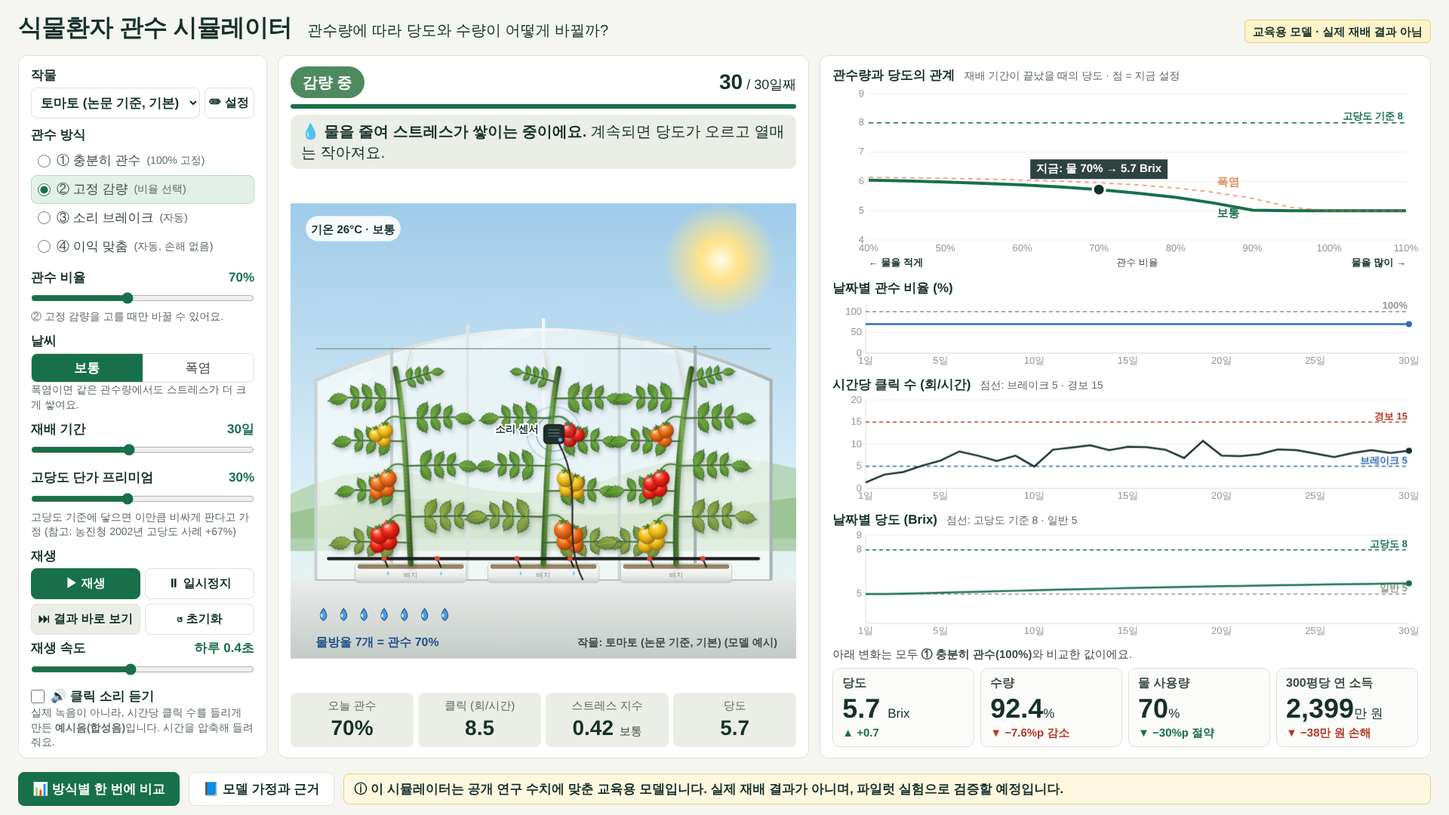
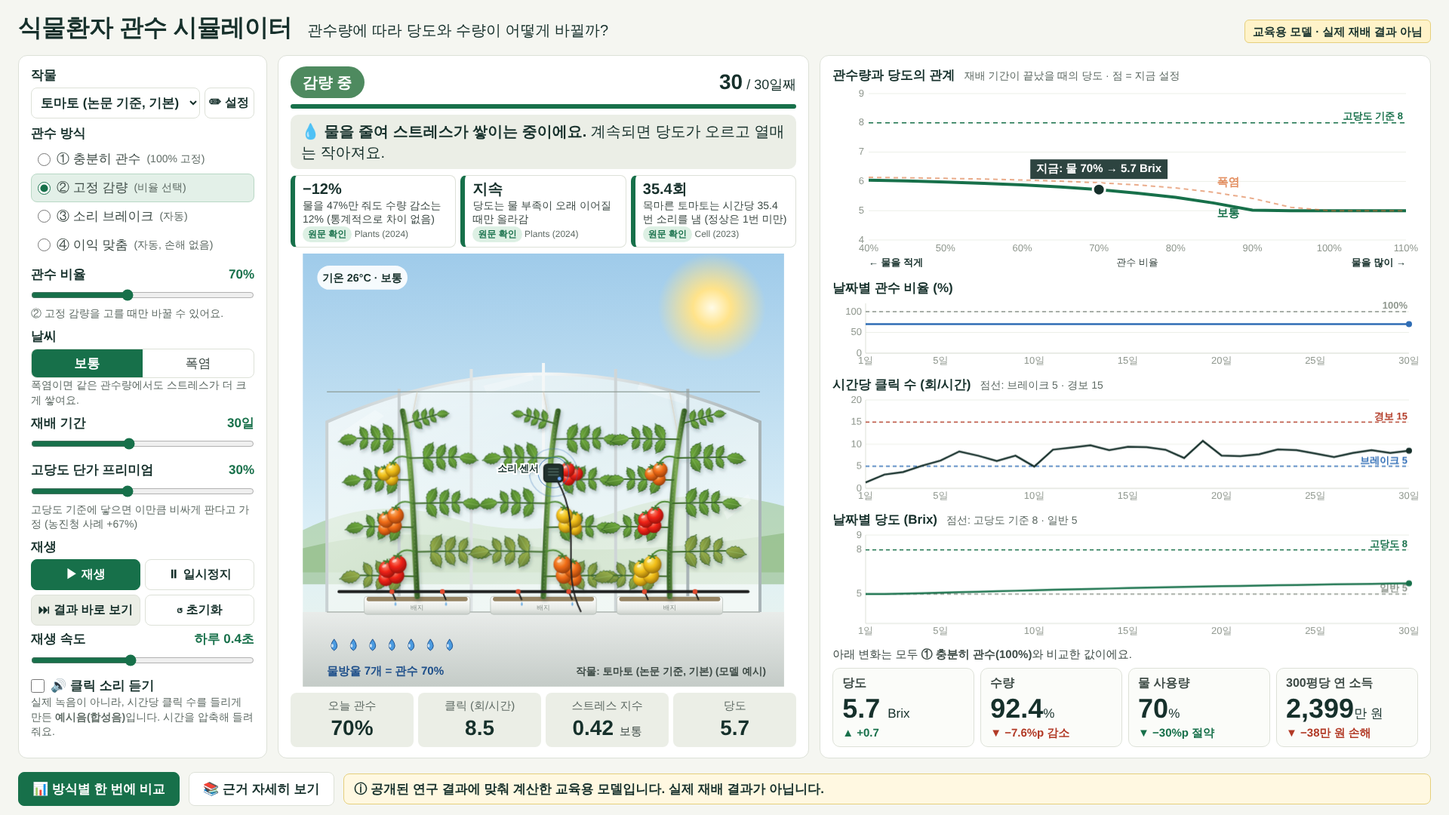
feat: 핵심 근거 카드로 근거를 보기 쉽게, 파일럿 실험 문구 삭제
- 메인 화면에 작물별 핵심 근거 3개(큰 숫자·한 줄 설명·출처·확인 수준) 표시
- 근거 창 맨 위에 큰 카드, 자세한 표는 아래로
- README에 '한눈에 보는 핵심 근거' 표 추가
- '파일럿 실험으로 검증할 예정' 문구를 화면·이미지·README에서 삭제

Claude-Session: https://claude.ai/code/session_01KETNBi2AXWmQph6AbBZ1xA

diff --git a/index.html b/index.html
@@ -31,7 +31,7 @@
   .panel h2 { margin: 0 0 8px; font-size: 16px; color: var(--ink); }
 
   /* 왼쪽 조작 패널 */
-  #controls { display: flex; flex-direction: column; gap: 10px; overflow-y: auto; }
+  #controls { display: flex; flex-direction: column; gap: 8px; overflow-y: auto; }
   fieldset { border: 0; margin: 0; padding: 0; }
   legend, .lbl { font-weight: bold; color: var(--ink); font-size: 17px; margin-bottom: 4px; padding: 0; }
   .radio { display: flex; align-items: center; gap: 8px; padding: 6px 8px; border-radius: 8px; cursor: pointer; border: 1px solid transparent; }
@@ -72,6 +72,23 @@
   .csactions input, .csactions select { font-size: 15px; padding: 7px 8px; border: 1px solid var(--line); border-radius: 8px; }
   .csactions input { width: 230px; }
   @media (max-width: 760px) { .csgrid { grid-template-columns: 1fr; } }
+  /* 핵심 근거 */
+  .evstrip { display: grid; grid-template-columns: repeat(3, 1fr); gap: 6px; }
+  .evchip { all: unset; cursor: pointer; display: flex; flex-direction: column; gap: 1px; background: #fff; border: 1px solid var(--line);
+    border-left: 6px solid var(--gray); border-radius: 8px; padding: 6px 10px; min-width: 0; }
+  .evchip:hover, .evchip:focus-visible { background: var(--soft); outline: 2px solid var(--blue); }
+  .evchip .big { font-size: 20px; font-weight: bold; color: var(--ink); line-height: 1.15; }
+  .evchip .t { font-size: 14px; color: var(--text); line-height: 1.3; }
+  .evchip .s { font-size: 12px; color: #5F6B65; white-space: nowrap; overflow: hidden; text-overflow: ellipsis; }
+  .evchip.orig, .evcard.orig { border-left-color: #17704A; } .evchip.abs, .evcard.abs { border-left-color: #2F6DB5; }
+  .evchip.sum, .evcard.sum { border-left-color: #D99A1E; } .evchip.asm, .evcard.asm { border-left-color: #A3A9A1; }
+  .evcards { display: grid; grid-template-columns: repeat(3, 1fr); gap: 10px; }
+  .evcard { background: #fff; border: 1px solid var(--line); border-left: 8px solid var(--gray); border-radius: 10px; padding: 12px 16px; }
+  .evcard .big, .evcard .t, .evcard .s { display: block; }
+  .evcard .big { font-size: 34px; font-weight: bold; color: var(--ink); line-height: 1.1; }
+  .evcard .t { font-size: 18px; color: var(--ink); margin: 6px 0; }
+  .evcard .s { font-size: 14px; color: #5F6B65; }
+  @media (max-width: 900px) { .evcards { grid-template-columns: 1fr; } }
   .toggle { display: flex; align-items: center; gap: 8px; cursor: pointer; font-weight: bold; color: var(--ink); font-size: 17px; }
   .toggle input { width: 18px; height: 18px; accent-color: var(--green); margin: 0; }
 
@@ -172,6 +189,7 @@
     .card .v { font-size: 24px; }
     .cards { gap: 6px; } .card { padding: 4px 8px; } .card .v { font-size: 20px; } .card .d { font-size: 12px; } .cardnote { display: none; }
     .readout b { font-size: 20px; }
+    .evchip .t { font-size: 12px; } .evchip .big { font-size: 16px; } .evchip { padding: 3px 8px; } .evchip .s { display: none; }
     .explain { font-size: 15px; padding: 5px 10px; min-height: 0; }
     .badge { font-size: 16px; padding: 5px 12px; }
     footer { padding: 6px 16px 10px; }
@@ -241,7 +259,7 @@
     <div>
       <div class="row"><span class="lbl">고당도 단가 프리미엄</span><span class="val" id="premVal">30%</span></div>
       <input type="range" id="premium" min="0" max="70" step="5" value="30">
-      <div class="note compact-hide">고당도 기준에 닿으면 이만큼 비싸게 판다고 가정 (참고: 농진청 2002년 고당도 사례 +67%)</div>
+      <div class="note compact-hide">고당도 기준에 닿으면 이만큼 비싸게 판다고 가정 (농진청 사례 +67%)</div>
     </div>
 
 
@@ -271,6 +289,7 @@
     </div>
     <div class="progress"><i id="prog"></i></div>
     <div class="explain" id="explain"></div>
+    <div class="evstrip" id="evStrip" title="누르면 근거를 자세히 볼 수 있어요"></div>
     <div id="svgwrap">
       <svg id="house" viewBox="0 -130 800 720" preserveAspectRatio="xMidYMid meet" overflow="hidden" role="img" aria-label="온실 속 시설 과채 3그루와 소리 센서">
         <defs>
@@ -370,8 +389,8 @@
 
 <footer>
   <button class="btn primary" id="openCmp">📊 방식별 한 번에 비교</button>
-  <button class="btn" id="openAssume">📘 모델 가정과 근거</button>
-  <div class="disclaimer">ⓘ 이 시뮬레이터는 공개 연구 수치에 맞춘 교육용 모델입니다. 실제 재배 결과가 아니며, 파일럿 실험으로 검증할 예정입니다.</div>
+  <button class="btn" id="openAssume">📚 근거 자세히 보기</button>
+  <div class="disclaimer">ⓘ 공개된 연구 결과에 맞춰 계산한 교육용 모델입니다. 실제 재배 결과가 아닙니다.</div>
 </footer>
 
 <!-- 작물 설정 -->
@@ -423,15 +442,18 @@
 <div class="modal" id="assumeModal">
   <div class="sheet">
     <div class="sheethead">
-      <h2>모델 가정과 근거</h2>
+      <h2>근거 자세히 보기</h2>
       <button class="btn" id="resetParams">기본값으로</button>
       <button class="btn close" data-close="assumeModal">✕ 닫기</button>
     </div>
-    <h3 style="margin:6px 0;color:var(--ink)">근거로 맞춘 기준값 · <span id="evCrop"></span></h3>
+    <h3 style="margin:6px 0;color:var(--ink)">핵심 근거 · <span id="evCrop2"></span></h3>
+    <div class="evcards" id="evCards"></div>
+    <p class="note" style="margin:6px 0 14px">테두리 색 = 확인 수준 &nbsp;
+      <span class="lv orig">원문 확인</span> 논문·자료 원문에서 직접 확인 · <span class="lv abs">초록 확인</span> 논문 요약(초록)에서 확인 ·
+      <span class="lv sum">검색 요약</span> 검색 결과로만 확인 · <span class="lv asm">가정</span> 근거 없이 정한 값</p>
+    <h3 style="margin:6px 0;color:var(--ink)">자세한 근거 표 · <span id="evCrop"></span></h3>
     <p class="note" id="evNote" style="margin:0 0 6px"></p>
     <table id="evTable"></table>
-    <p class="note" style="margin:6px 0 0"><span class="lv orig">원문 확인</span> 논문·자료 PDF에서 수치를 직접 확인 ·
-      <span class="lv abs">초록 확인</span> 논문 초록에서 확인 · <span class="lv sum">검색 요약</span> 검색 결과 요약으로만 확인 · <span class="lv asm">가정</span> 근거 없이 정한 값</p>
     <h3 style="margin:14px 0 4px;color:var(--ink)">작물별 검증: 문헌 목표와 모델 결과</h3>
     <p class="note" style="margin:0 0 6px">같은 시드로 고정 감량을 계산한 값입니다. "참고" 줄은 검사하지 않고 차이만 보여 줍니다.</p>
     <table id="vfTable"></table>
@@ -789,6 +811,11 @@
 
   var CROPS = {
     tomato: {
+      highlights: [
+        { big: '−12%', text: '물을 47%만 줘도 수량 감소는 12% (통계적으로 차이 없음)', src: 'Plants (2024)', lv: '원문 확인' },
+        { big: '지속', text: '당도는 물 부족이 오래 이어질 때만 올라감', src: 'Plants (2024)', lv: '원문 확인' },
+        { big: '35.4회', text: '목마른 토마토는 시간당 35.4번 소리를 냄 (정상은 1번 미만)', src: 'Cell (2023)', lv: '원문 확인' }
+      ],
       name: '토마토 (논문 기준, 기본)', fruit: 'tomato',
       params: {},
       note: '발표 기본 모델. Plants (2024) 원문에 맞춤: 물 47%에서 수량 −12%(통계적으로 유의하지 않음), 당도 +1.0 정도.',
@@ -807,6 +834,11 @@
       ]
     },
     tomatoDraft: {
+      highlights: [
+        { big: '+1.5', text: '처음 계획의 목표: 물 70%에서 당도 +1.5 이상', src: '처음 프롬프트', lv: '가정' },
+        { big: '47%', text: '논문의 수량 −12%는 사실 물 47% 조건이었음', src: 'Plants (2024)', lv: '원문 확인' },
+        { big: '35.4회', text: '목마른 토마토는 시간당 35.4번 소리를 냄 (정상은 1번 미만)', src: 'Cell (2023)', lv: '원문 확인' }
+      ],
       name: '토마토 (처음 초안)', fruit: 'tomato', params: { maxBrixRise: 4.0, yieldLinear: 0.30, yieldQuad: 2.5 },
       note: '처음 프롬프트 기준(70%: 당도 +1.5 이상, 수량 −8~16%)에 맞춘 설정. 논문의 −12%는 물 47% 조건이었으므로 원문보다 당도도 수량 손해도 크게 나옵니다. 비교용.',
       evidence: [
@@ -827,6 +859,11 @@
       ]
     },
     cherry: {
+      highlights: [
+        { big: '+12~16%', text: '물을 줄이면 방울토마토 당도가 12~16% 오름', src: 'Agriculture (2021) 외', lv: '검색 요약' },
+        { big: '가을 −5~20%', text: '가을 작기는 수량 차이가 작음, 봄 작기는 크게 감소', src: 'Agric. Water Manag.', lv: '초록 확인' },
+        { big: '35.4회', text: '목마른 토마토는 시간당 35.4번 소리를 냄 (정상은 1번 미만)', src: 'Cell (2023)', lv: '원문 확인' }
+      ],
       name: '방울토마토', fruit: 'cherry',
       params: { baseBrix: 7, highBrix: 9, maxBrixRise: 1.7, yieldLinear: 0.255, yieldQuad: 2.5 },
       note: '당도 증가 +12~16%, 가을 작기 수량 감소 5~20%에 맞춤.',
@@ -844,6 +881,11 @@
       ]
     },
     strawberry: {
+      highlights: [
+        { big: '−30~36%', text: '물을 줄이면 상품 수량이 30~36% 감소, 당도는 그대로', src: 'Front. Hortic. (2025)', lv: '검색 요약' },
+        { big: '−25%', text: '심으면서부터 물을 줄이면 당이 오히려 25% 줄어듦', src: 'Hortic. Environ. Biotechnol. (2023)', lv: '초록 확인' },
+        { big: '자료 없음', text: '딸기의 소리는 측정된 적 없음 → 토마토 값 사용', src: 'Cell (2023)', lv: '가정' }
+      ],
       name: '딸기', fruit: 'strawberry',
       params: { baseBrix: 9, highBrix: 11, maxBrixRise: 0.4, yieldLinear: 0.84, yieldQuad: 2.5 },
       note: '수량은 크게 줄고, 당도는 연구에 따라 증가·변화 없음·감소가 모두 보고됨. 당도 상승을 아주 작게 잡음. 물을 줄여 얻는 것이 적은 작물.',
@@ -861,6 +903,11 @@
       ]
     },
     melon: {
+      highlights: [
+        { big: '+23%', text: '물을 절반(50%)으로 줄이면 당도 23% 증가', src: 'Agric. Water Manag. (2014)', lv: '초록 확인' },
+        { big: '−30%', text: '대신 상품 수량 30% 감소 (주로 열매가 작아짐)', src: 'Agric. Water Manag. (2014)', lv: '초록 확인' },
+        { big: '37~45%', text: '물을 37~45% 아낄 수 있음 (Mission·Da Vinci 품종)', src: 'Agric. Water Manag. (2014)', lv: '초록 확인' }
+      ],
       name: '멜론', fruit: 'melon',
       params: { baseBrix: 11, highBrix: 14, maxBrixRise: 3.1, yieldLinear: 0.4, yieldQuad: 2.5 },
       note: '50% 관수에서 당도 +23%, 상품 수량 −30%(주로 과실 크기 감소)에 맞춤. 품종에 따라 수량 감소가 −24~43%로 다름.',
@@ -878,6 +925,11 @@
       ]
     },
     citrus: {
+      highlights: [
+        { big: '+2.6~3.0', text: '타이벡으로 빗물을 막으면 당도가 2.6~3.0 °Bx 오름', src: '제주농업기술원 (2019)', lv: '원문 확인' },
+        { big: '30~60일', text: '피복하고 30~60일이 지나야 물 스트레스가 시작됨', src: '제주농업기술원 (2019)', lv: '원문 확인' },
+        { big: '9.9 vs 11.7', text: '물이 고인 나무는 당도가 1.8 °Bx 낮음', src: '제주농업기술원 (2019)', lv: '원문 확인' }
+      ],
       name: '감귤 (타이벡 피복)', fruit: 'citrus',
       params: { baseBrix: 10, highBrix: 11, maxBrixRise: 3.8, yieldLinear: 0.23, yieldQuad: 2.5, sustainMinDays: 25, stressAccum: 0.25 },
       note: '타이벡으로 빗물을 막아 물을 줄이는 실제 재배법. 피복 후 30~60일 지나야 스트레스가 시작돼 재배 기간을 60일로 늘려 보세요. 관수 50%를 "피복"으로 봄.',
@@ -897,6 +949,11 @@
       ]
     },
     pepper: {
+      highlights: [
+        { big: '80%', text: '물을 80%로 줄여도 수량이 오히려 늘어남 (물 10% 절약)', src: 'ISHS Acta Hortic. 1034', lv: '초록 확인' },
+        { big: '−35%', text: '짠물로 키우면 수량 35% 감소, 대신 당도는 오름', src: 'ISHS Acta Hortic. 1034', lv: '초록 확인' },
+        { big: '자료 없음', text: '파프리카의 소리는 측정된 적 없음 → 토마토 값 사용', src: 'Cell (2023)', lv: '가정' }
+      ],
       name: '파프리카', fruit: 'pepper',
       params: { baseBrix: 7, highBrix: 8, maxBrixRise: 0.8, yieldLinear: 0.036, yieldQuad: 2.5 },
       note: '20% 정도 줄여도 수량이 거의 줄지 않는다는 연구가 있음. 당도 상승은 작게 잡음.',
@@ -920,7 +977,8 @@
     CROPS[key] = {
       name: name, fruit: fruit || 'tomato', params: params || {}, custom: true,
       note: '사용자가 만든 작물입니다. 값은 모두 직접 입력한 것이며 검증되지 않았습니다.',
-      evidence: [['모든 값', '사용자가 직접 입력', '-', '가정']], targets: []
+      evidence: [['모든 값', '사용자가 직접 입력', '-', '가정']], targets: [],
+      highlights: [{ big: '직접 입력', text: '사용자가 만든 작물이라 근거가 없는 값입니다', src: '-', lv: '가정' }]
     };
     return CROPS[key];
   }
@@ -947,7 +1005,7 @@
     });
   }
 
-  // 방식별 비교 (발표 파일럿 설계 3그룹 + ④ 이익 맞춤)
+  // 방식별 비교 (① 100% · ② 70% 고정 · ③ 소리 브레이크 · ④ 이익 맞춤)
   function compareAll(opts) {
     var groups = [
       { key: 'full', name: '① 충분히 관수 (100%)', mode: 'full' },
@@ -1564,7 +1622,7 @@
     });
     g.fillStyle = C.red; g.font = 'bold 22px ' + F; g.fillText('⚠ 가정값에 따라 결과가 달라집니다.', 50, ly + 50);
     g.fillStyle = C.text; g.font = '20px ' + F;
-    g.fillText('공개 연구 수치에 맞춘 교육용 모델입니다. 실제 재배 결과가 아니며, 파일럿 실험으로 검증할 예정입니다. — 식물환자 관수 시뮬레이터', 50, ly + 84);
+    g.fillText('공개된 연구 결과에 맞춰 계산한 교육용 모델입니다. 실제 재배 결과가 아닙니다. — 식물환자 관수 시뮬레이터', 50, ly + 84);
   }
   function download(name, href) {
     var a = document.createElement('a'); a.href = href; a.download = name;
@@ -1583,8 +1641,17 @@
   // ── 모델 가정과 근거 ──
   var LV = { '원문 확인': 'orig', '초록 확인': 'abs', '검색 요약': 'sum', '가정': 'asm' };
   function esc(x) { return String(x).replace(/&/g, '&amp;').replace(/</g, '&lt;'); }
+  function hlHTML(h, cls) {
+    return '<' + (cls === 'evchip' ? 'button type="button"' : 'div') + ' class="' + cls + ' ' + (LV[h.lv] || 'asm') + '">' +
+      '<span class="big">' + esc(h.big) + '</span><span class="t">' + esc(h.text) + '</span>' +
+      '<span class="s"><span class="lv ' + (LV[h.lv] || 'asm') + '">' + esc(h.lv) + '</span> ' + esc(h.src) + '</span></' + (cls === 'evchip' ? 'button' : 'div') + '>';
+  }
   function buildEvidence() {
-    var c = M.CROPS[$('crop').value];
+    var c = M.CROPS[$('crop').value], hl = c.highlights || [];
+    $('evStrip').innerHTML = hl.map(function (h) { return hlHTML(h, 'evchip'); }).join('');
+    $('evStrip').querySelectorAll('.evchip').forEach(function (b) { b.onclick = function () { $('openAssume').click(); }; });
+    $('evCards').innerHTML = hl.map(function (h) { return hlHTML(h, 'evcard'); }).join('');
+    $('evCrop2').textContent = c.name;
     $('evCrop').textContent = c.name; $('evNote').textContent = c.note;
     $('evTable').innerHTML = '<tr><th>항목</th><th>값</th><th>출처</th><th>확인</th></tr>' + c.evidence.map(function (r) {
       return '<tr><td>' + esc(r[0]) + '</td><td>' + esc(r[1]) + '</td><td>' + esc(r[2]) + '</td><td><span class="lv ' + (LV[r[3]] || 'asm') + '">' + esc(r[3]) + '</span></td></tr>';

diff --git a/model.js b/model.js
@@ -335,6 +335,11 @@
 
   var CROPS = {
     tomato: {
+      highlights: [
+        { big: '−12%', text: '물을 47%만 줘도 수량 감소는 12% (통계적으로 차이 없음)', src: 'Plants (2024)', lv: '원문 확인' },
+        { big: '지속', text: '당도는 물 부족이 오래 이어질 때만 올라감', src: 'Plants (2024)', lv: '원문 확인' },
+        { big: '35.4회', text: '목마른 토마토는 시간당 35.4번 소리를 냄 (정상은 1번 미만)', src: 'Cell (2023)', lv: '원문 확인' }
+      ],
       name: '토마토 (논문 기준, 기본)', fruit: 'tomato',
       params: {},
       note: '발표 기본 모델. Plants (2024) 원문에 맞춤: 물 47%에서 수량 −12%(통계적으로 유의하지 않음), 당도 +1.0 정도.',
@@ -353,6 +358,11 @@
       ]
     },
     tomatoDraft: {
+      highlights: [
+        { big: '+1.5', text: '처음 계획의 목표: 물 70%에서 당도 +1.5 이상', src: '처음 프롬프트', lv: '가정' },
+        { big: '47%', text: '논문의 수량 −12%는 사실 물 47% 조건이었음', src: 'Plants (2024)', lv: '원문 확인' },
+        { big: '35.4회', text: '목마른 토마토는 시간당 35.4번 소리를 냄 (정상은 1번 미만)', src: 'Cell (2023)', lv: '원문 확인' }
+      ],
       name: '토마토 (처음 초안)', fruit: 'tomato', params: { maxBrixRise: 4.0, yieldLinear: 0.30, yieldQuad: 2.5 },
       note: '처음 프롬프트 기준(70%: 당도 +1.5 이상, 수량 −8~16%)에 맞춘 설정. 논문의 −12%는 물 47% 조건이었으므로 원문보다 당도도 수량 손해도 크게 나옵니다. 비교용.',
       evidence: [
@@ -373,6 +383,11 @@
       ]
     },
     cherry: {
+      highlights: [
+        { big: '+12~16%', text: '물을 줄이면 방울토마토 당도가 12~16% 오름', src: 'Agriculture (2021) 외', lv: '검색 요약' },
+        { big: '가을 −5~20%', text: '가을 작기는 수량 차이가 작음, 봄 작기는 크게 감소', src: 'Agric. Water Manag.', lv: '초록 확인' },
+        { big: '35.4회', text: '목마른 토마토는 시간당 35.4번 소리를 냄 (정상은 1번 미만)', src: 'Cell (2023)', lv: '원문 확인' }
+      ],
       name: '방울토마토', fruit: 'cherry',
       params: { baseBrix: 7, highBrix: 9, maxBrixRise: 1.7, yieldLinear: 0.255, yieldQuad: 2.5 },
       note: '당도 증가 +12~16%, 가을 작기 수량 감소 5~20%에 맞춤.',
@@ -390,6 +405,11 @@
       ]
     },
     strawberry: {
+      highlights: [
+        { big: '−30~36%', text: '물을 줄이면 상품 수량이 30~36% 감소, 당도는 그대로', src: 'Front. Hortic. (2025)', lv: '검색 요약' },
+        { big: '−25%', text: '심으면서부터 물을 줄이면 당이 오히려 25% 줄어듦', src: 'Hortic. Environ. Biotechnol. (2023)', lv: '초록 확인' },
+        { big: '자료 없음', text: '딸기의 소리는 측정된 적 없음 → 토마토 값 사용', src: 'Cell (2023)', lv: '가정' }
+      ],
       name: '딸기', fruit: 'strawberry',
       params: { baseBrix: 9, highBrix: 11, maxBrixRise: 0.4, yieldLinear: 0.84, yieldQuad: 2.5 },
       note: '수량은 크게 줄고, 당도는 연구에 따라 증가·변화 없음·감소가 모두 보고됨. 당도 상승을 아주 작게 잡음. 물을 줄여 얻는 것이 적은 작물.',
@@ -407,6 +427,11 @@
       ]
     },
     melon: {
+      highlights: [
+        { big: '+23%', text: '물을 절반(50%)으로 줄이면 당도 23% 증가', src: 'Agric. Water Manag. (2014)', lv: '초록 확인' },
+        { big: '−30%', text: '대신 상품 수량 30% 감소 (주로 열매가 작아짐)', src: 'Agric. Water Manag. (2014)', lv: '초록 확인' },
+        { big: '37~45%', text: '물을 37~45% 아낄 수 있음 (Mission·Da Vinci 품종)', src: 'Agric. Water Manag. (2014)', lv: '초록 확인' }
+      ],
       name: '멜론', fruit: 'melon',
       params: { baseBrix: 11, highBrix: 14, maxBrixRise: 3.1, yieldLinear: 0.4, yieldQuad: 2.5 },
       note: '50% 관수에서 당도 +23%, 상품 수량 −30%(주로 과실 크기 감소)에 맞춤. 품종에 따라 수량 감소가 −24~43%로 다름.',
@@ -424,6 +449,11 @@
       ]
     },
     citrus: {
+      highlights: [
+        { big: '+2.6~3.0', text: '타이벡으로 빗물을 막으면 당도가 2.6~3.0 °Bx 오름', src: '제주농업기술원 (2019)', lv: '원문 확인' },
+        { big: '30~60일', text: '피복하고 30~60일이 지나야 물 스트레스가 시작됨', src: '제주농업기술원 (2019)', lv: '원문 확인' },
+        { big: '9.9 vs 11.7', text: '물이 고인 나무는 당도가 1.8 °Bx 낮음', src: '제주농업기술원 (2019)', lv: '원문 확인' }
+      ],
       name: '감귤 (타이벡 피복)', fruit: 'citrus',
       params: { baseBrix: 10, highBrix: 11, maxBrixRise: 3.8, yieldLinear: 0.23, yieldQuad: 2.5, sustainMinDays: 25, stressAccum: 0.25 },
       note: '타이벡으로 빗물을 막아 물을 줄이는 실제 재배법. 피복 후 30~60일 지나야 스트레스가 시작돼 재배 기간을 60일로 늘려 보세요. 관수 50%를 "피복"으로 봄.',
@@ -443,6 +473,11 @@
       ]
     },
     pepper: {
+      highlights: [
+        { big: '80%', text: '물을 80%로 줄여도 수량이 오히려 늘어남 (물 10% 절약)', src: 'ISHS Acta Hortic. 1034', lv: '초록 확인' },
+        { big: '−35%', text: '짠물로 키우면 수량 35% 감소, 대신 당도는 오름', src: 'ISHS Acta Hortic. 1034', lv: '초록 확인' },
+        { big: '자료 없음', text: '파프리카의 소리는 측정된 적 없음 → 토마토 값 사용', src: 'Cell (2023)', lv: '가정' }
+      ],
       name: '파프리카', fruit: 'pepper',
       params: { baseBrix: 7, highBrix: 8, maxBrixRise: 0.8, yieldLinear: 0.036, yieldQuad: 2.5 },
       note: '20% 정도 줄여도 수량이 거의 줄지 않는다는 연구가 있음. 당도 상승은 작게 잡음.',
@@ -466,7 +501,8 @@
     CROPS[key] = {
       name: name, fruit: fruit || 'tomato', params: params || {}, custom: true,
       note: '사용자가 만든 작물입니다. 값은 모두 직접 입력한 것이며 검증되지 않았습니다.',
-      evidence: [['모든 값', '사용자가 직접 입력', '-', '가정']], targets: []
+      evidence: [['모든 값', '사용자가 직접 입력', '-', '가정']], targets: [],
+      highlights: [{ big: '직접 입력', text: '사용자가 만든 작물이라 근거가 없는 값입니다', src: '-', lv: '가정' }]
     };
     return CROPS[key];
   }
@@ -493,7 +529,7 @@
     });
   }
 
-  // 방식별 비교 (발표 파일럿 설계 3그룹 + ④ 이익 맞춤)
+  // 방식별 비교 (① 100% · ② 70% 고정 · ③ 소리 브레이크 · ④ 이익 맞춤)
   function compareAll(opts) {
     var groups = [
       { key: 'full', name: '① 충분히 관수 (100%)', mode: 'full' },

diff --git a/README.md b/README.md
@@ -3,7 +3,24 @@
 관수량을 줄이면 당도는 오르고 수량은 줄어드는 관계를 슬라이더로 직접 체험하는 웹 페이지입니다.
 2026 연암SMART팜 융복합 공모전 본선 발표 시연용입니다.
 
-> 이 시뮬레이터는 공개 연구 수치에 맞춘 교육용 모델입니다. 실제 재배 결과가 아니며, 파일럿 실험으로 검증할 예정입니다.
+> 공개된 연구 결과에 맞춰 계산한 교육용 모델입니다. 실제 재배 결과가 아닙니다.
+
+## 한눈에 보는 핵심 근거
+
+| 내용 | 숫자 | 출처 | 확인 수준 |
+| --- | --- | --- | --- |
+| 물을 47%만 줘도 토마토 수량 감소는 12% (통계적으로 차이 없음) | −12% | Alomari-Mheidat et al., *Plants* 13:128 (2024) | 원문 확인 |
+| 당도는 물 부족이 **오래 이어질 때만** 오름 | — | *Plants* (2024) | 원문 확인 |
+| 목마른 토마토는 시간당 35.4번 소리를 냄 (정상은 1번 미만) | 35.4회 | Khait et al., *Cell* 186:1328 (2023) | 원문 확인 |
+| 물을 준 뒤 소리는 4~5일간 늘다가 줄어듦 | 4~5일 | *Cell* (2023) | 원문 확인 |
+| 타이벡 피복 감귤은 당도가 2.6~3.0 °Bx 오름 | +2.6~3.0 | 제주농업기술원 (2019) | 원문 확인 |
+| 피복 후 30~60일이 지나야 물 스트레스가 시작됨 | 30~60일 | 제주농업기술원 (2019) | 원문 확인 |
+| 멜론은 물을 절반으로 줄이면 당도 +23%, 상품 수량 −30% | +23% / −30% | *Agric. Water Manag.* (2014) | 초록 확인 |
+| 파프리카는 물을 80%로 줄여도 수량이 오히려 늘어남 | 80% | ISHS *Acta Hortic.* 1034 | 초록 확인 |
+| 딸기는 물을 줄이면 상품 수량 −30~36%, 당도는 그대로 | −30~36% | *Front. Hortic.* (2025) | 검색 요약 |
+
+**확인 수준**: 원문 확인 = 논문·자료 원문(PDF)에서 직접 확인 · 초록 확인 = 논문 요약(초록)에서 확인 · 검색 요약 = 검색 결과로만 확인 · 가정 = 근거 없이 정한 값.
+화면에서는 가운데 위의 **근거 카드**와 아래 **"📚 근거 자세히 보기"** 버튼으로 같은 내용을 볼 수 있습니다.
 
 ## 실행 방법
 
@@ -46,7 +63,7 @@
 
 ## 계수표 (`model.js`의 `DEFAULTS`)
 
-화면의 "📘 모델 가정과 근거"에서 모든 값을 바꿔 바로 다시 계산할 수 있습니다.
+화면의 "📚 근거 자세히 보기"에서 모든 값을 바꿔 바로 다시 계산할 수 있습니다.
 
 | 계수 | 값 | 의미 | 출처 / 가정 |
 | --- | --- | --- | --- |
@@ -104,7 +121,7 @@
 
 ## 작물별 시험 (작물 선택)
 
-왼쪽 맨 위에서 작물을 고르면 그 작물의 문헌 수치에 맞춘 계수로 다시 계산합니다. "📘 모델 가정과 근거"에 작물별 근거 표(확인 수준 표시)와 **문헌 목표 대 모델 결과 검증표**가 있습니다. `node test.js`도 같은 목표를 검사합니다.
+왼쪽 맨 위에서 작물을 고르면 그 작물의 문헌 수치에 맞춘 계수로 다시 계산합니다. "📚 근거 자세히 보기"에 작물별 근거 표(확인 수준 표시)와 **문헌 목표 대 모델 결과 검증표**가 있습니다. `node test.js`도 같은 목표를 검사합니다.
 
 | 작물 | 맞춘 목표 | 핵심 근거 | 확인 수준 |
 | --- | --- | --- | --- |
